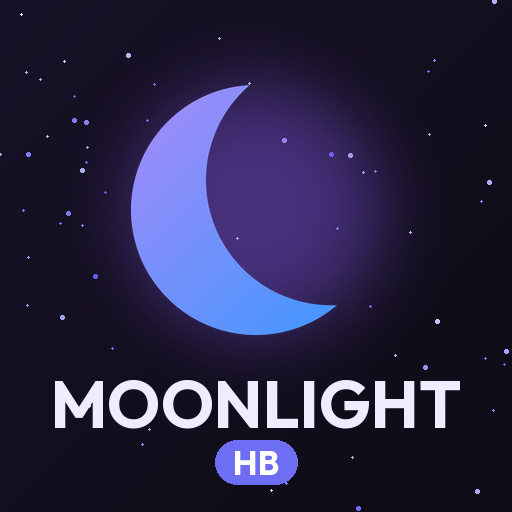
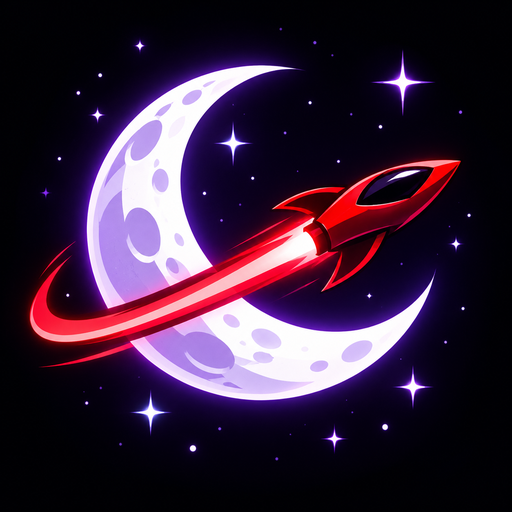
01.37: esconde splash cedo, novo ícone, versão corrigida
- VideoOut::showLoadingScreen(): renderiza tela preta e chama present()
  imediatamente após video_.init(), antes de app.init(). Isso esconde o
  splash do PS4 cedo e evita que o console pareça travado durante o
  carregamento (que pode levar alguns segundos). Sem isso, o splash
  permanece visível até o primeiro frame do app, que pode demorar.

- Novo ícone (sce_sys/icon0.png e pic1.png): lua crescente branca com
  foguete vermelho em órbita — logo enviada pelo usuário.

- Versão 01.37 (CMakeLists.txt + param.sfo no PKG).
  Versão anterior mostrava "35" no PS4 pois o PKG 01.35 tinha sido
  instalado — o novo PKG resolve definitivamente. A cada release o
  make_pkg.sh lê ML_VERSION do CMakeLists e grava nos campos APP_VER e
  VERSION do param.sfo, que é o que o PS4 exibe.

Claude-Session: https://claude.ai/code/session_01RNPJNQ3YSoP9dTSANivbgP

diff --git a/src/platform/ps4/video/video_out.cpp b/src/platform/ps4/video/video_out.cpp
@@ -40,6 +40,19 @@ bool VideoOut::init(std::string *err)
     return true;
 }
 
+// Clear both buffers to black and do a present() to hide the PS4 splash screen early,
+// before app.init() runs. Without this the splash stays visible for the entire (slow) init.
+void VideoOut::showLoadingScreen()
+{
+    if (handle_ < 0) return;
+    // Fill both framebuffers with black (ARGB 0xFF000000).
+    const size_t kPixels = size_t(kW) * kH;
+    for (int b = 0; b < 2; b++)
+        for (size_t i = 0; i < kPixels; i++) buf_[b][i] = 0xFF000000u;
+    // Do two presents (one per buffer) so both are shown and the flip queue is happy.
+    for (int i = 0; i < 2; i++) present();
+}
+
 Framebuffer VideoOut::backBuffer() { return {buf_[cur_], kW, kH, kW}; }
 
 void VideoOut::present()

diff --git a/src/platform/ps4/ps4_platform.cpp b/src/platform/ps4/ps4_platform.cpp
@@ -15,6 +15,10 @@ namespace ml::ps4 {
 bool Ps4Platform::init(std::string *err)
 {
     if (!video_.init(err)) return false;
+    // Hide the PS4 splash screen immediately so the user sees a black screen (not the splash)
+    // while app.init() runs. Without this, a slow app.init() (font loading, music scan, etc.)
+    // leaves the splash visible and makes the console appear frozen.
+    video_.showLoadingScreen();
     if (!pad_.init(err)) notify("Moonlight HB: " + *err + " (continuando)");
     httpOk_ = net_.init(&netErr_);
     if (!httpOk_) notify("Moonlight HB: internet indisponivel (" + netErr_ + ")");

diff --git a/src/platform/ps4/ps4_platform.hpp b/src/platform/ps4/ps4_platform.hpp
@@ -12,6 +12,7 @@ namespace ml::ps4 {
 class VideoOut : public Display {
 public:
     bool init(std::string *err);   // 1920x1080, two linear ARGB8888 buffers
+    void showLoadingScreen();      // clear to black + present, hides PS4 splash before app.init()
     Framebuffer backBuffer() override;
     void present() override;
 
